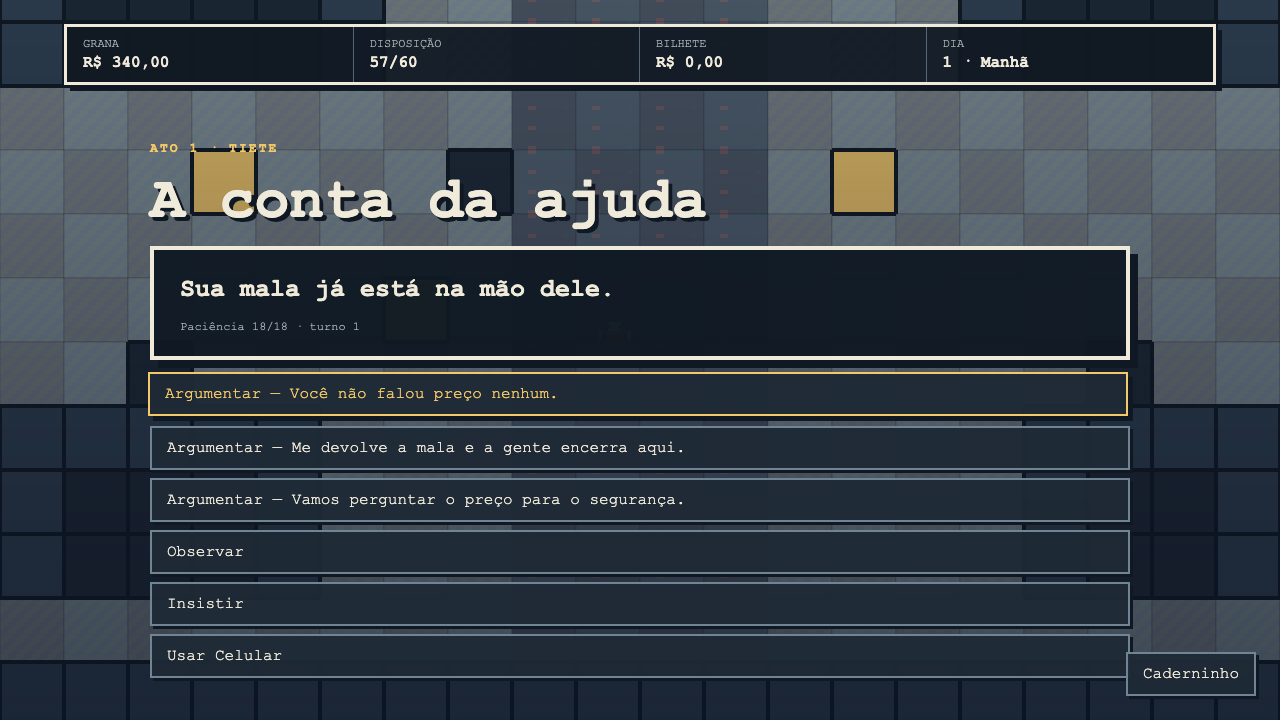
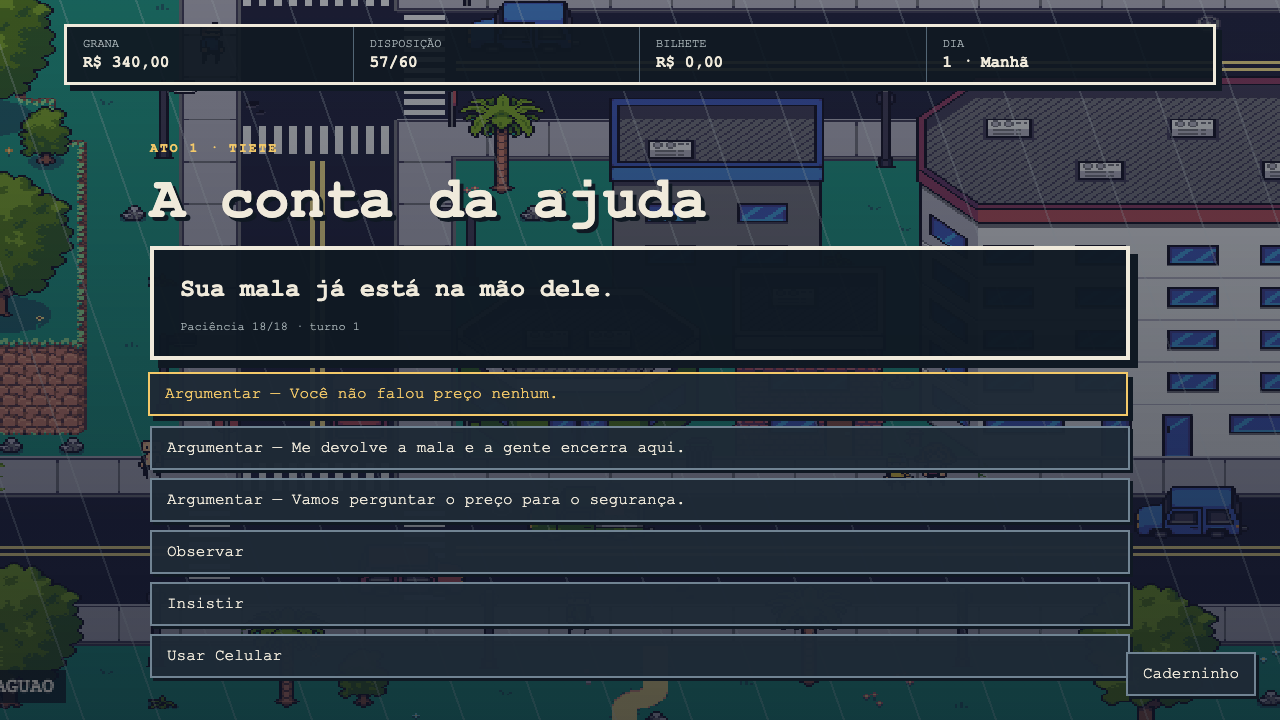
feat: integrate complete urban city tileset

diff --git a/src/engine/backdrop.ts b/src/engine/backdrop.ts
@@ -61,6 +61,7 @@ export class WorldScene extends Phaser.Scene {
   }
   preload(): void {
     this.load.atlas('garoa', 'atlas.png', 'atlas.json')
+    this.load.image('fisherg-city', 'assets/fisherg-city/sMockup.png')
   }
   create(): void {
     bridge.scene = this
@@ -92,7 +93,7 @@ export class WorldScene extends Phaser.Scene {
     this.createExits(bridge.presentation.exits)
     this.createActors(bridge.presentation.actors)
     this.player = this.physics.add
-      .sprite(MAP_WIDTH * TILE * 0.5, MAP_HEIGHT * TILE * 0.62, 'garoa', 'protagonista_down_0')
+      .sprite(MAP_WIDTH * TILE * 0.5, MAP_HEIGHT * TILE * 0.8, 'garoa', 'protagonista_down_0')
       .setScale(1.6)
     this.player.setSize(12, 10).setOffset(10, 20).setCollideWorldBounds(true).setDepth(10)
     this.physics.add.collider(this.player, this.obstacles)
@@ -162,8 +163,8 @@ export class WorldScene extends Phaser.Scene {
   }
   private createActors(actors: readonly WorldActor[]): void {
     actors.forEach((actor, index) => {
-      const x = (8 + ((index * 6) % 10)) * TILE
-      const y = (9 + (index % 2) * 2) * TILE
+      const x = (index % 2 === 0 ? 18 : 6) * TILE
+      const y = 10.5 * TILE
       const frame = actor.kind === 'npc' ? npcFrame(actor.id) : 'banca_jornal'
       const sprite = this.physics.add.staticSprite(x, y, 'garoa', frame).setScale(1.5).setDepth(8)
       sprite.setData('actionId', actor.id)
@@ -187,6 +188,7 @@ export class WorldScene extends Phaser.Scene {
     const rectangle = this.add
       .rectangle((tileX + width / 2) * TILE, (tileY + 0.5) * TILE, width * TILE, TILE, color)
       .setStrokeStyle(2, 0x101923)
+      .setVisible(false)
       .setDepth(4)
     this.physics.add.existing(rectangle, true)
     this.obstacles?.add(rectangle)
@@ -317,31 +319,33 @@ function districtPalette(district: string): Palette {
   return options[district] ?? options.tiete!
 }
 function drawMap(scene: Phaser.Scene, palette: Palette, placeId: string): void {
-  const graphics = scene.add.graphics().setDepth(0)
-  for (let y = 0; y < MAP_HEIGHT; y += 1)
-    for (let x = 0; x < MAP_WIDTH; x += 1) {
-      graphics
-        .fillStyle((x + y) % 2 === 0 ? palette.floor : palette.floorAlt)
-        .fillRect(x * TILE, y * TILE, TILE, TILE)
-      graphics.lineStyle(1, palette.void, 0.16).strokeRect(x * TILE, y * TILE, TILE, TILE)
-      const street = x >= 10 && x <= 13
-      scene.add
-        .image(
-          (x + 0.5) * TILE,
-          (y + 0.5) * TILE,
-          'garoa',
-          street ? 'asfalto_molhado' : 'calcada_portuguesa'
-        )
-        .setAlpha(street ? 0.48 : 0.18)
-        .setDepth(1)
-    }
   scene.add
-    .text(14, MAP_HEIGHT * TILE - 22, placeId.replaceAll('_', ' ').toUpperCase(), {
+    .image(MAP_WIDTH * TILE * 0.5, MAP_HEIGHT * TILE * 0.5, 'fisherg-city')
+    .setDisplaySize(MAP_WIDTH * TILE, MAP_HEIGHT * TILE)
+    .setDepth(0)
+  scene.add
+    .rectangle(
+      MAP_WIDTH * TILE * 0.5,
+      MAP_HEIGHT * TILE * 0.5,
+      MAP_WIDTH * TILE,
+      MAP_HEIGHT * TILE,
+      palette.void,
+      0.3
+    )
+    .setDepth(1)
+  const rain = scene.add.graphics().setDepth(2)
+  rain.lineStyle(1, 0xa7b2b5, 0.28)
+  for (let x = -MAP_HEIGHT * TILE; x < MAP_WIDTH * TILE; x += 38)
+    rain.lineBetween(x, 0, x + MAP_HEIGHT * TILE * 0.35, MAP_HEIGHT * TILE)
+  scene.add
+    .text(14, MAP_HEIGHT * TILE - 25, placeId.replaceAll('_', ' ').toUpperCase(), {
       fontFamily: 'monospace',
       fontSize: '10px',
-      color: '#101923',
+      color: '#f0eadb',
+      backgroundColor: '#101923cc',
+      padding: { x: 5, y: 3 },
     })
-    .setDepth(2)
+    .setDepth(3)
 }
 function npcFrame(actionId: string): string {
   const id = actionId.replace('talk:', '')

diff --git a/README.md b/README.md
@@ -57,7 +57,8 @@ Phaser / Playwright / bot headless
 - `src/core/`: estado imutável, economia, diálogos, Desenrolo, RNG e saves.
 - `src/content/`: mundo e história como dados validados por Zod.
 - `src/engine/`: apresentação Phaser, sem regras de jogo.
-- `tools/art/`: atlas pixel-art determinístico gerado por código.
+- `tools/art/`: personagens e elementos paulistanos gerados de forma determinística.
+- `public/assets/fisherg-city/`: tiles urbanos CC0 usados como base dos mapas.
 - `tools/playtest/`: bot headless e playthrough visual.
 - `docs/screenshots/`: capturas reais produzidas pelo playthrough.
 
@@ -87,3 +88,10 @@ O histórico de rodadas e correções está em [PLAYTEST_LOG.md](PLAYTEST_LOG.md
 - Telemetria é desligada por padrão e não coleta PII.
 
 GAROA é um projeto autoral, atualmente sem licença para redistribuição.
+
+## Créditos de arte
+
+Os mapas urbanos reutilizam e adaptam o pack **12×12 City Tiles — Top Down**, de
+FisherG, distribuído em CC0. A cópia da licença original acompanha os arquivos em
+`public/assets/fisherg-city/LICENSE.txt`. Chuva, paleta, sinalização, personagens e
+elementos específicos de São Paulo são adaptações do projeto GAROA.

diff --git a/docs/ART_ASSETS.md b/docs/ART_ASSETS.md
@@ -1,0 +1,16 @@
+# Arte e licenças
+
+## FisherG — 12×12 City Tiles — Top Down
+
+- Origem: https://opengameart.org/content/12x12-city-tiles-top-down
+- Autor: FisherG
+- Licença: CC0; modificação e uso comercial permitidos.
+- Arquivos preservados em `public/assets/fisherg-city/`, junto ao README/licença
+  distribuído pelo autor.
+
+O pack fornece a base urbana modular: ruas, faixas, calçadas, prédios, árvores,
+postes, lixeiras, cercas, veículos e personagens de referência. GAROA sobrepõe
+garoa, paleta fria, sinalização, NPCs e objetos paulistanos autorais.
+
+O pack de dungeon da CraftPix foi usado apenas como referência de densidade e
+composição. Nenhum pixel desse pack foi incluído no repositório.
